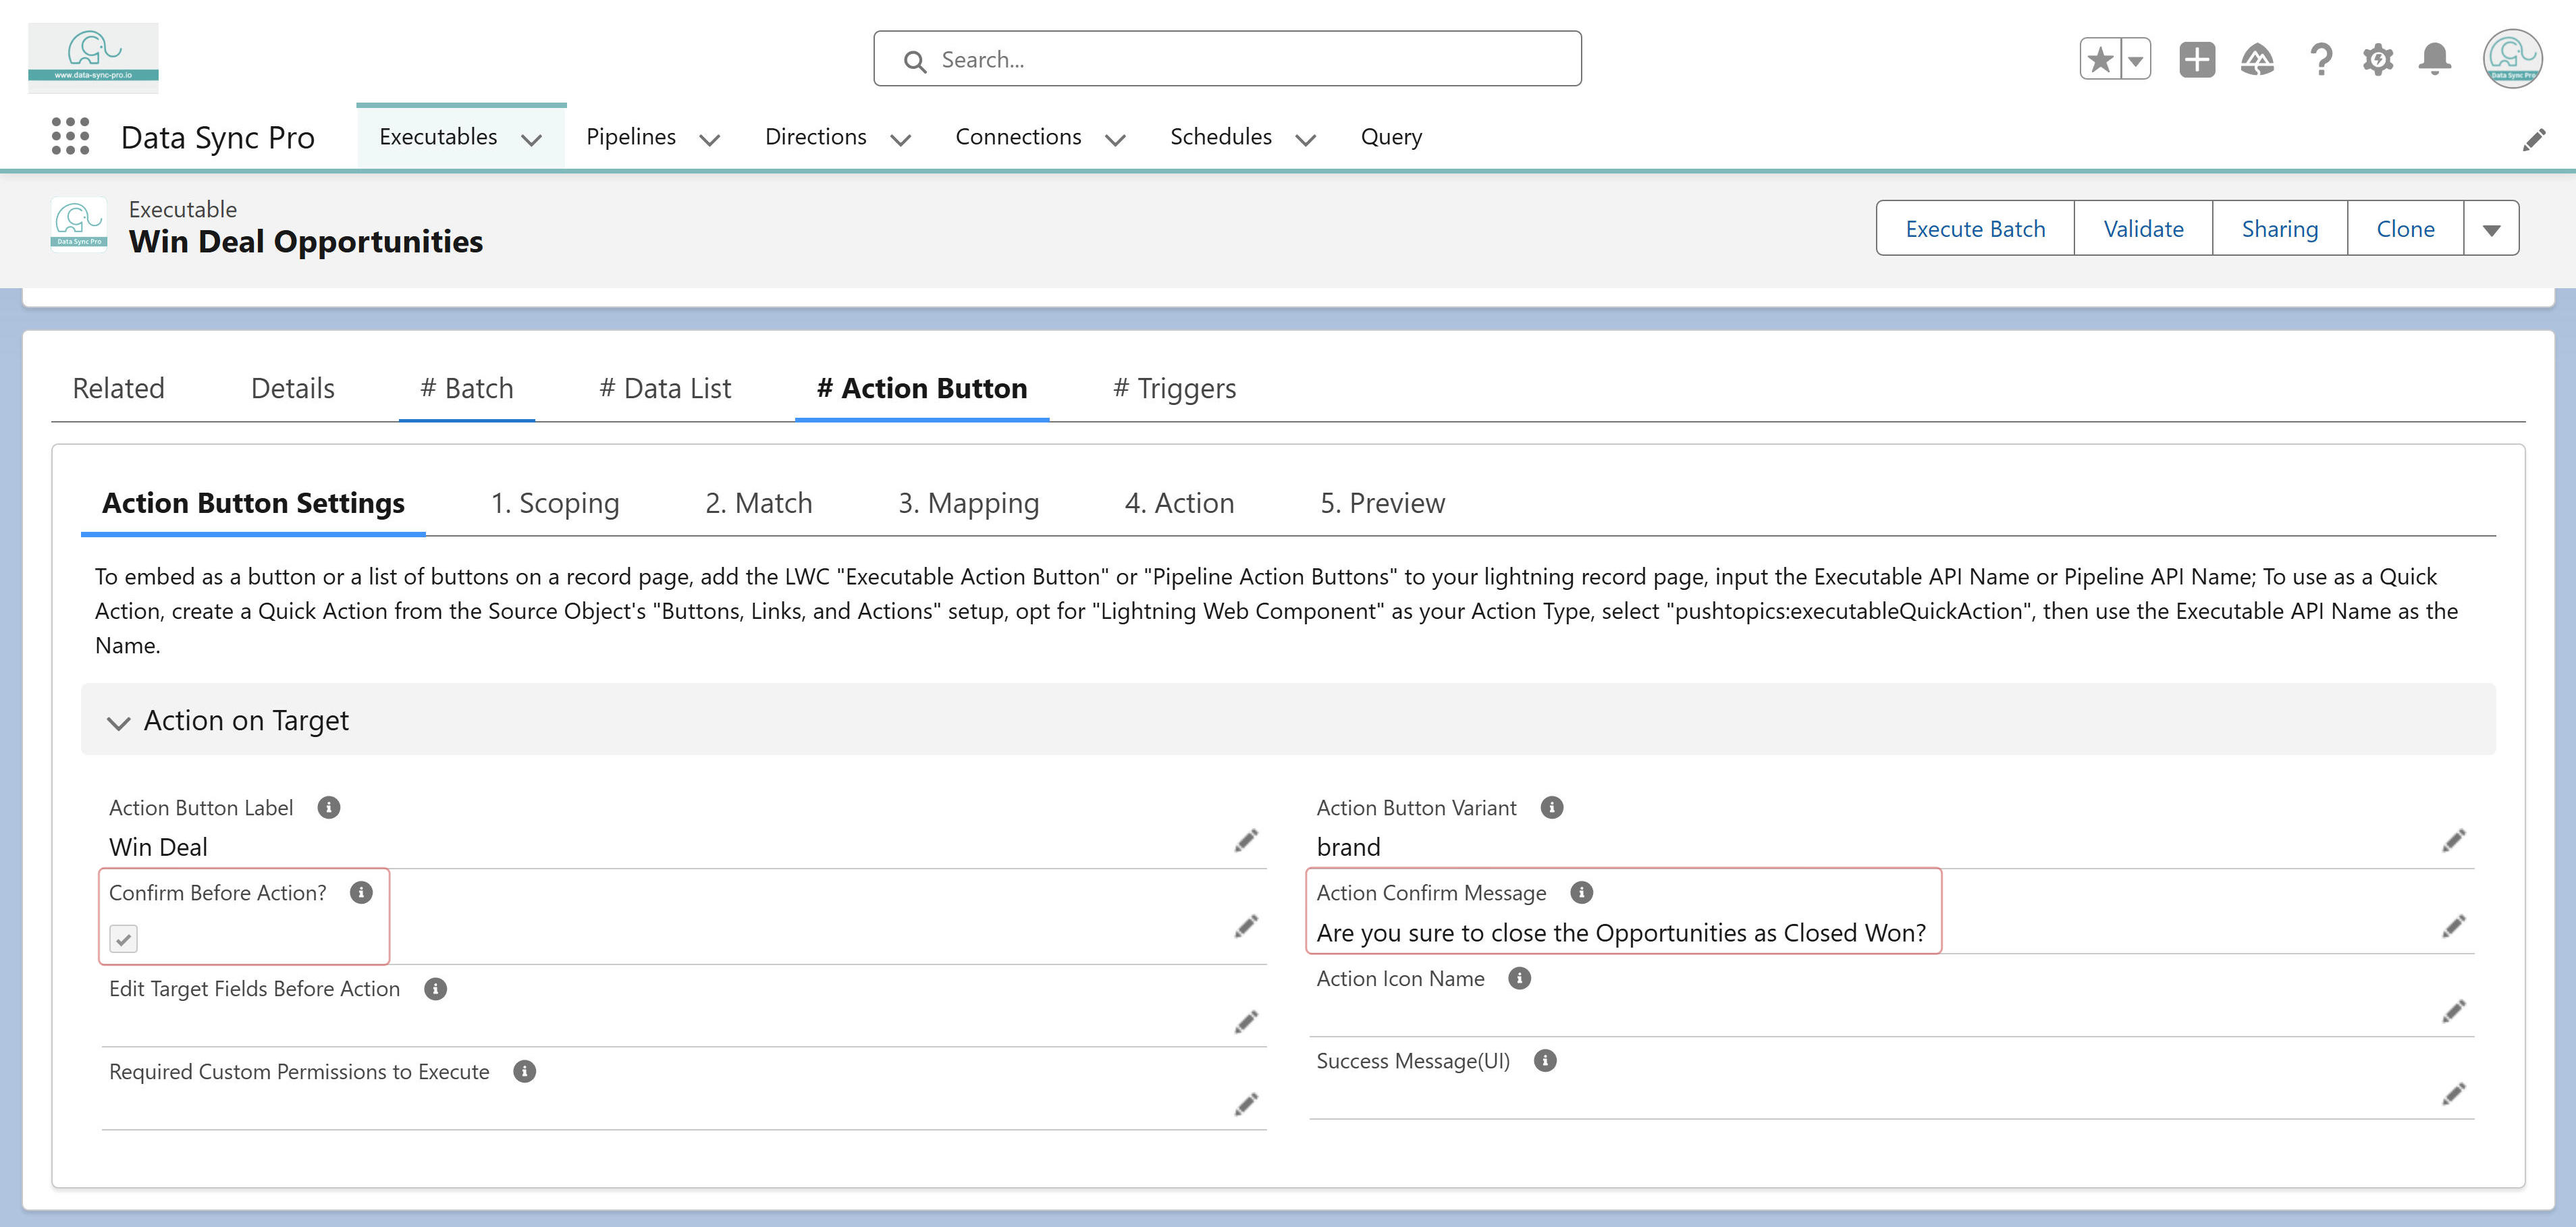
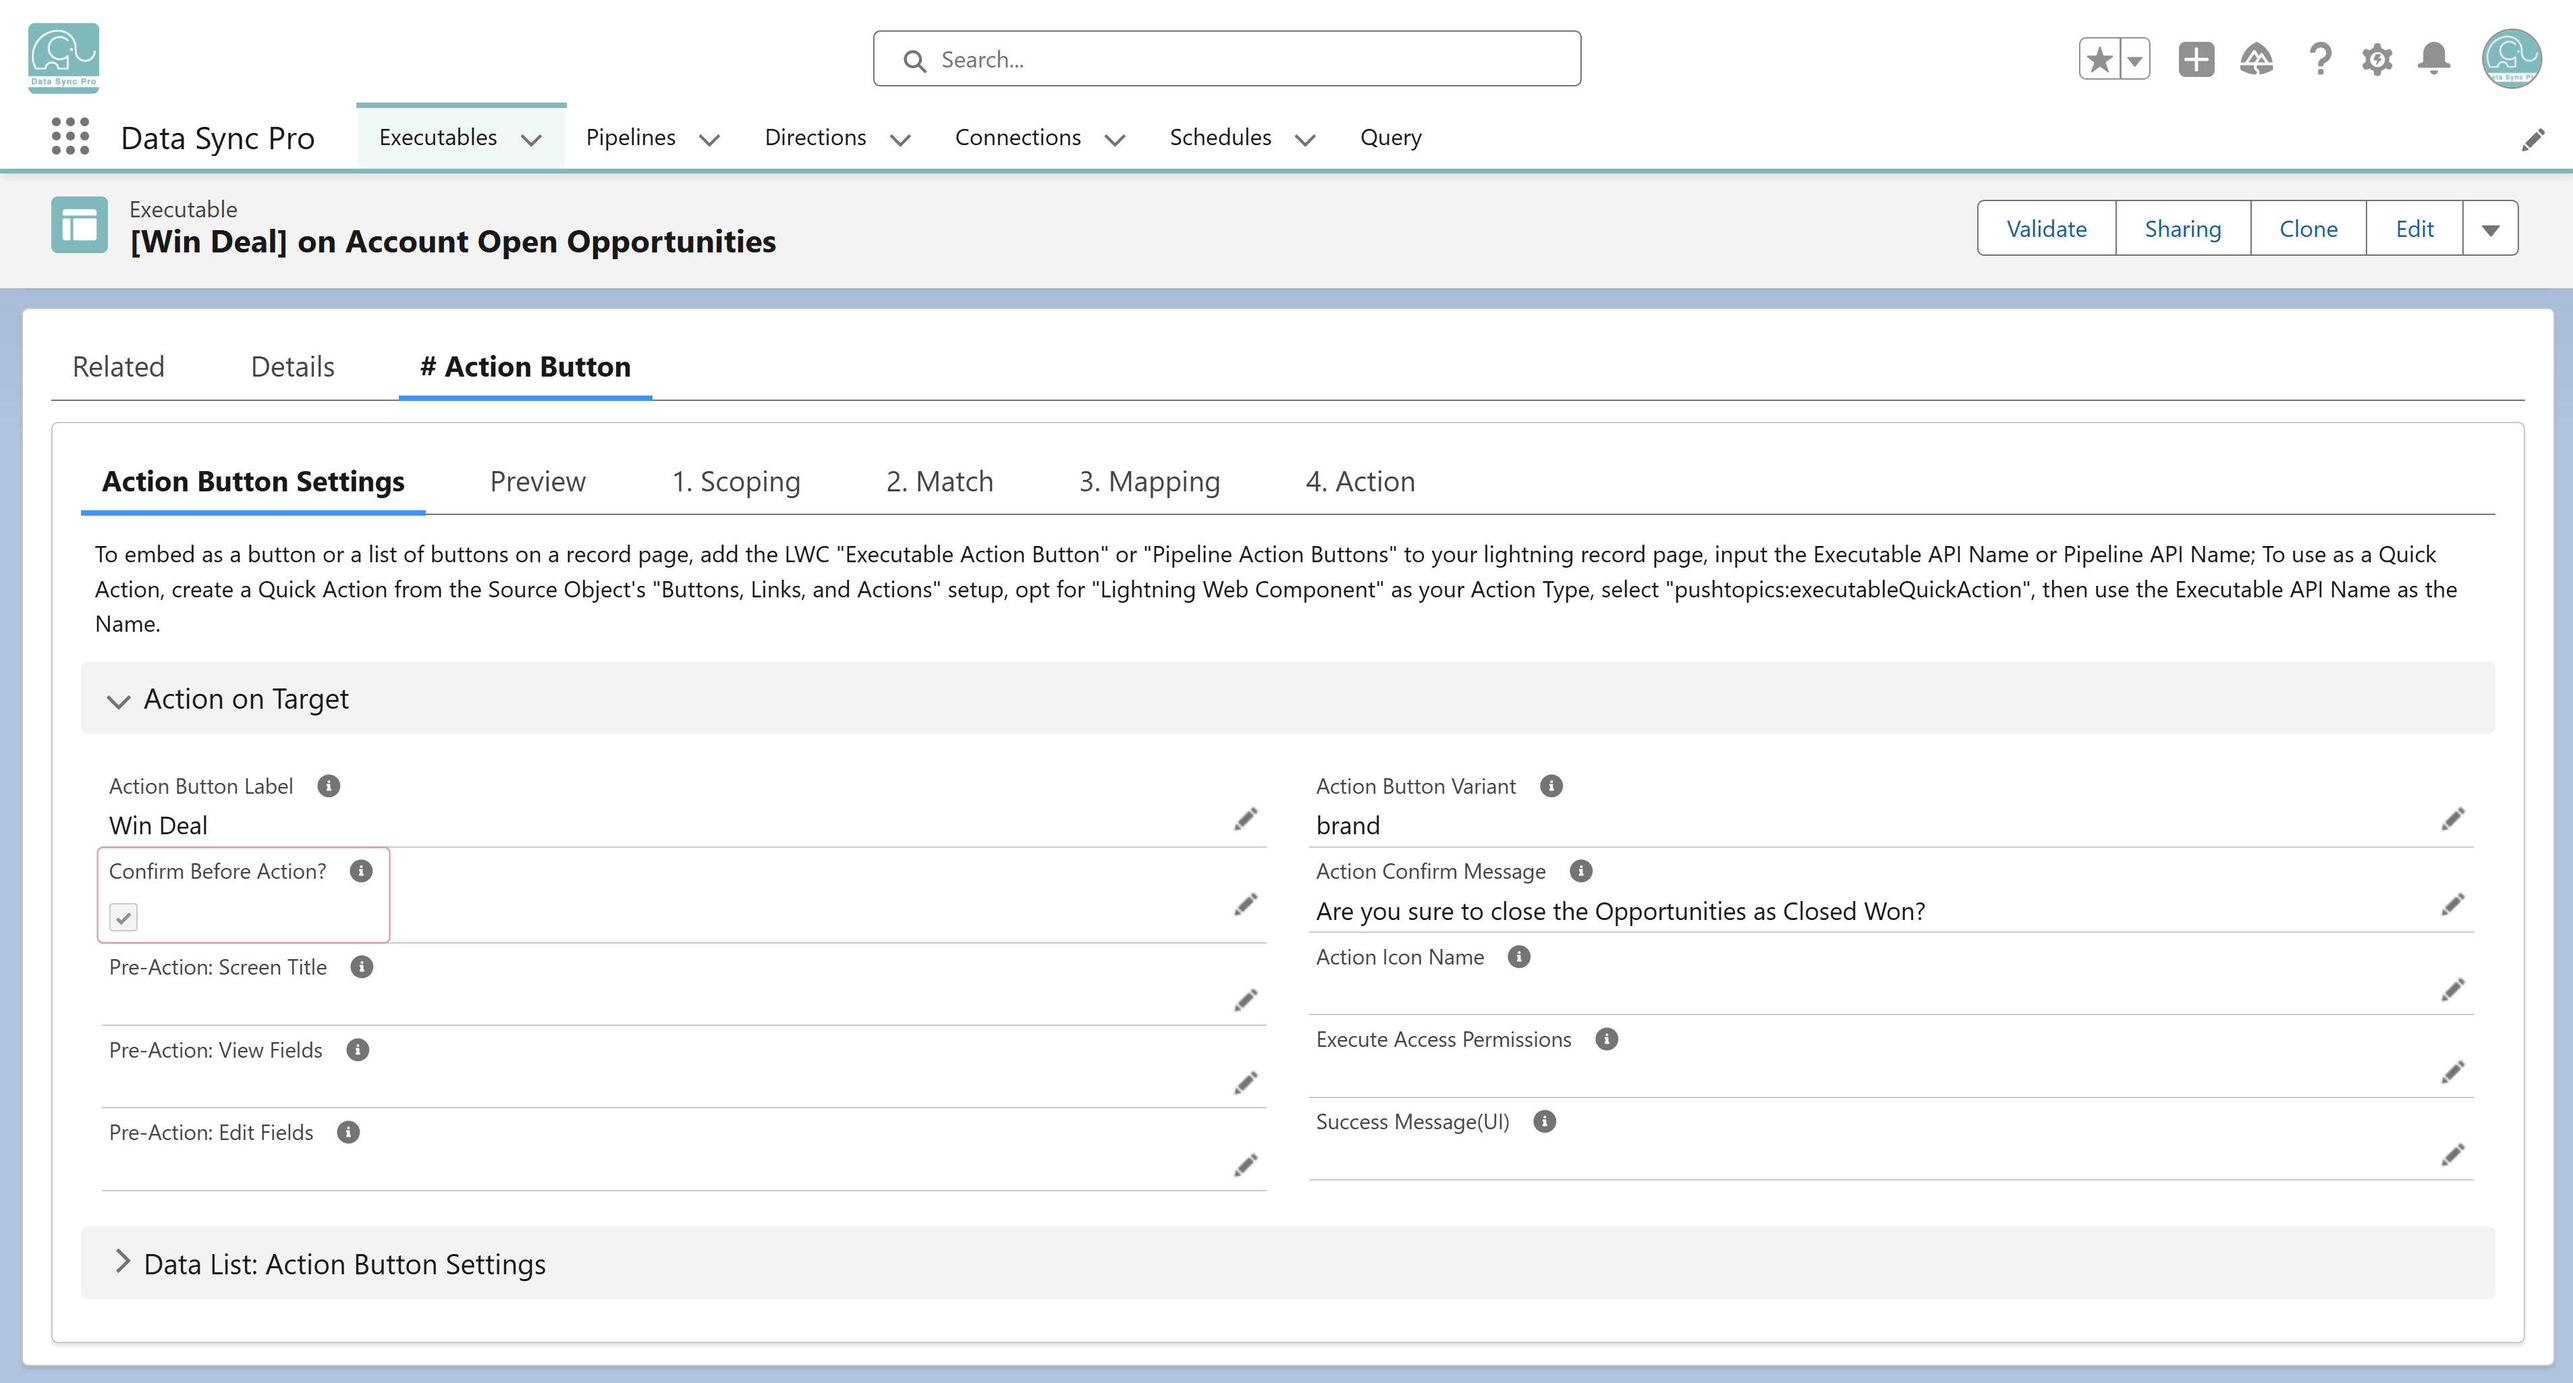
update image and word

diff --git a/src/assets/faq-item/permissions-for-query-results.html b/src/assets/faq-item/permissions-for-query-results.html
@@ -8,7 +8,7 @@
       <li><strong>Q: Show Row Action 'Edit'?</strong> - Enables an <strong>Edit</strong> option for each row.</li>
       <li><strong>Q: Show Row Action 'Clone'?</strong> - Enables a <strong>Clone</strong> action for each row.</li>
       <li><strong>Q: Show Row Action 'Delete'?</strong> - Enables a <strong>Delete</strong> option for individual records.</li>
-      <li><strong>Data List(s) Access Permissions</strong> - Restricts visibility of the <strong>#Data List </strong>to users with specific custom permissions.</li>
+      <li><strong>Q: Data List(s) Access Permissions</strong> - Restricts visibility of the <strong>#Data List </strong>to users with specific custom permissions.</li>
     </ol>
     <p>
       These permission settings provide precise control over how users interact with <strong>data—ensuring 

diff --git a/src/assets/faq-item/action-button-can-prompt-confirmation.html b/src/assets/faq-item/action-button-can-prompt-confirmation.html
@@ -17,7 +17,7 @@
       <strong>
         <span
           class="clickable-image"
-          data-src="assets/image/action-button-can-prompt-confirmation/action-button-can-prompt-confirmation1.jpg"
+          data-src="assets/image/action-button-can-prompt-confirmation/action-button-can-prompt-confirmation2.jpg"
           >Action Confirm Message</span
         ></strong
       >
@@ -27,5 +27,5 @@
 </ul>
 <p>This ensures users review their choice before the action is executed.</p>
 <img
-  src="assets/image/action-button-can-prompt-confirmation/action-button-can-prompt-confirmation2.jpg"
+  src="assets/image/action-button-can-prompt-confirmation/action-button-can-prompt-confirmation3.jpg"
 />

diff --git a/src/assets/faq-item/can-users-review-edit-before-execution.html b/src/assets/faq-item/can-users-review-edit-before-execution.html
@@ -5,7 +5,7 @@
     ><span
       class="clickable-image"
       data-src="assets/image/data-list-can-users-review-edit-before-execution/data-list-can-users-review-edit-before-execution1.jpg"
-      >Edit Target Fields Before Action</span
+      >Pre-Action: Edit Fields</span
     ></strong
   >
   field to enter the target field API names (comma-separated).

diff --git a/src/assets/faq-item/how-users-review-edit-values.html b/src/assets/faq-item/how-users-review-edit-values.html
@@ -5,7 +5,7 @@
     <span
       class="clickable-image"
       data-src="assets/image/action-button-how-users-review-edit-values/action-button-how-users-review-edit-values1.jpg"
-      >Edit Target Fields Before Action.</span
+      >Pre-Action: Edit Fields.</span
     ></strong
   >
 
